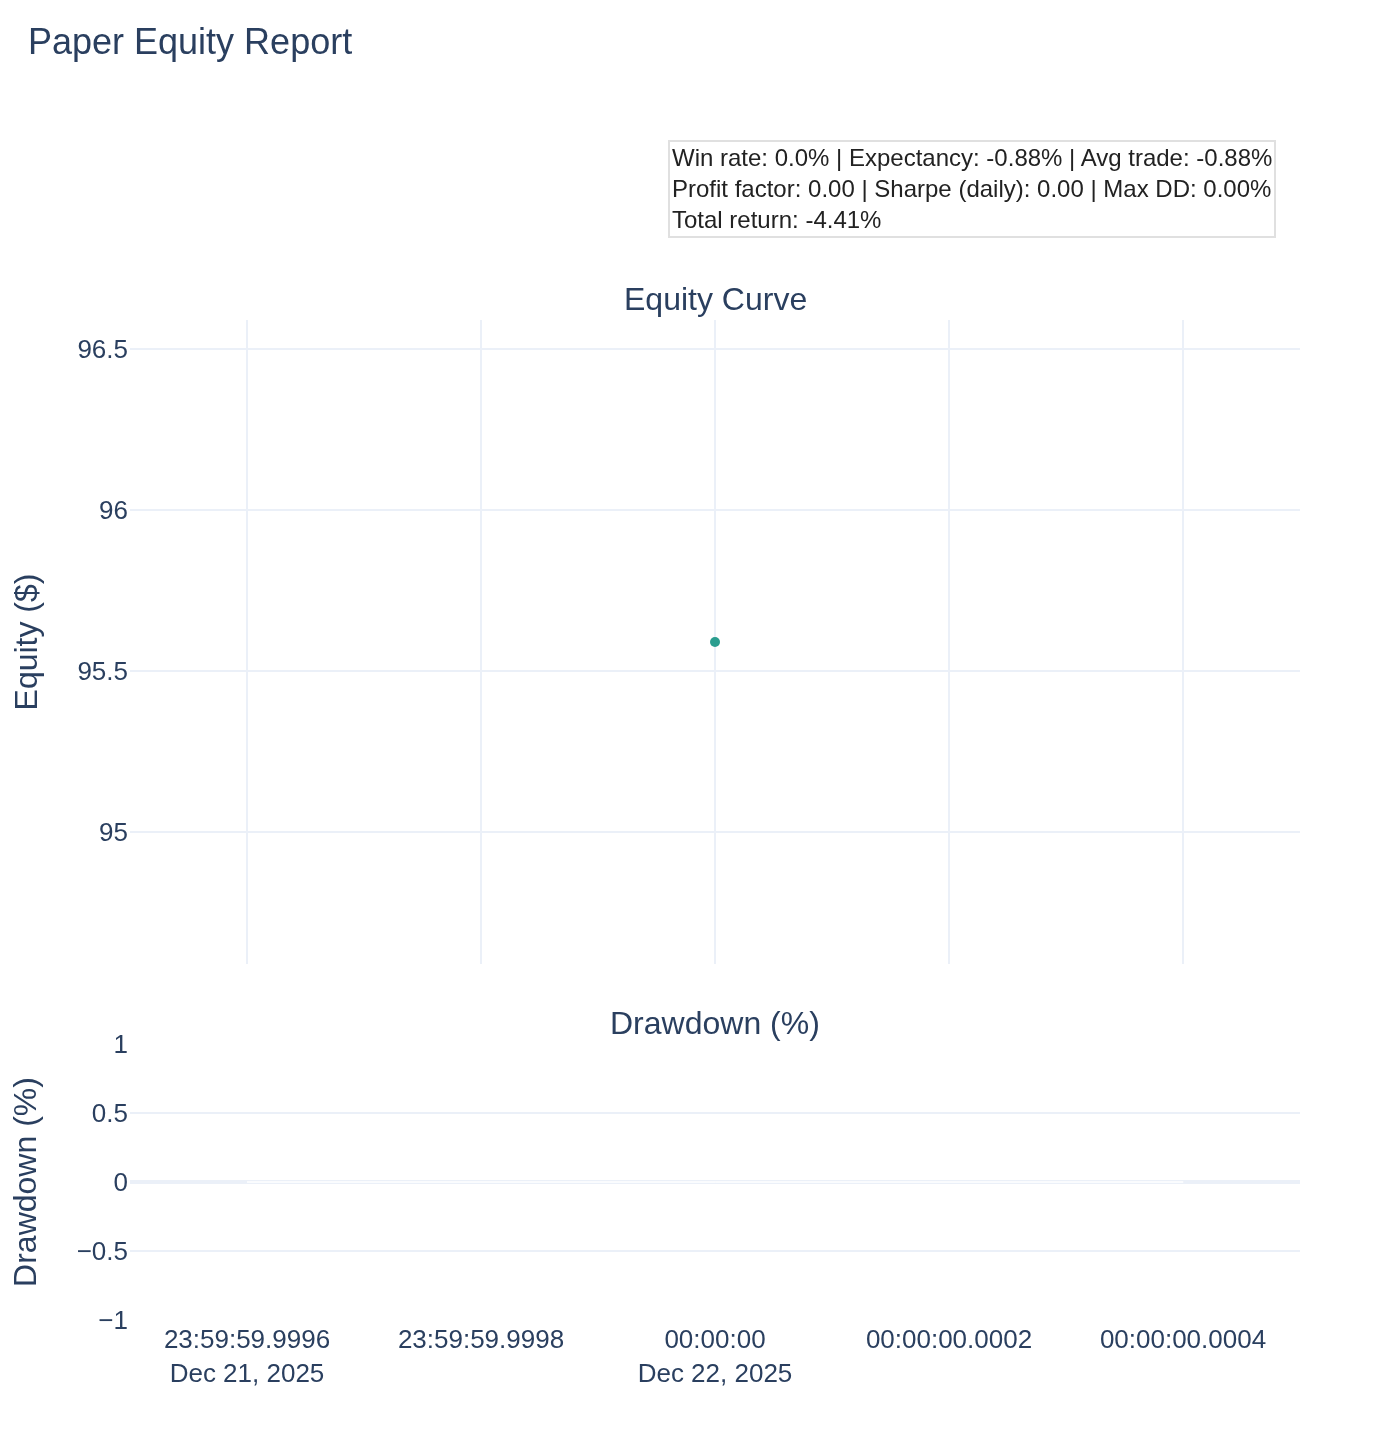
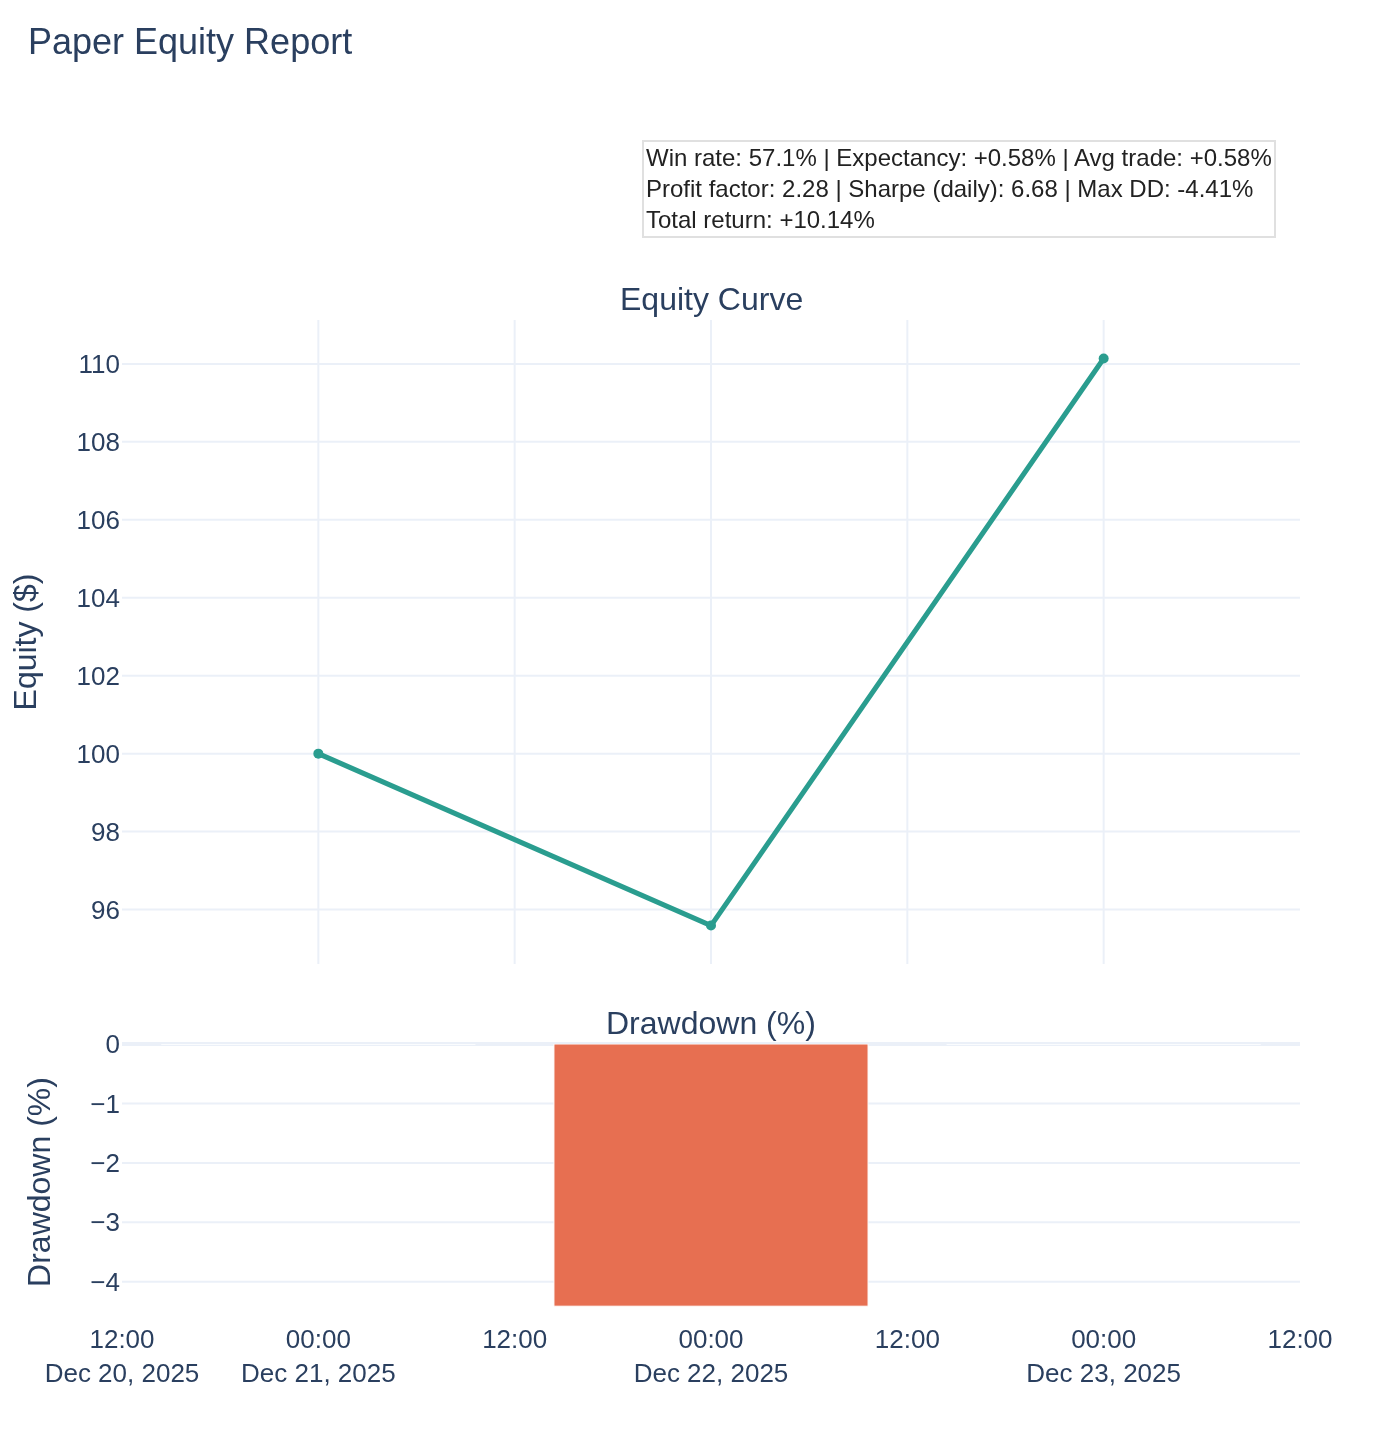
Anchor equity report to starting balance

diff --git a/reports/paper_equity_report.html b/reports/paper_equity_report.html
@@ -2,6 +2,6 @@
 <head><meta charset="utf-8" /></head>
 <body>
     <div>                        <script type="text/javascript">window.PlotlyConfig = {MathJaxConfig: 'local'};</script>
-        <script charset="utf-8" src="https://cdn.plot.ly/plotly-3.3.0.min.js" integrity="sha256-bO3dS6yCpk9aK4gUpNELtCiDeSYvGYnK7jFI58NQnHI=" crossorigin="anonymous"></script>                <div id="7e780906-0592-4a27-96a0-090c764df14f" class="plotly-graph-div" style="height:720px; width:100%;"></div>            <script type="text/javascript">                window.PLOTLYENV=window.PLOTLYENV || {};                                if (document.getElementById("7e780906-0592-4a27-96a0-090c764df14f")) {                    Plotly.newPlot(                        "7e780906-0592-4a27-96a0-090c764df14f",                        [{"line":{"color":"#2a9d8f","width":2.5},"marker":{"color":"#2a9d8f","size":5},"mode":"lines+markers","name":"Equity","x":["2025-12-22"],"y":{"dtype":"f8","bdata":"9ihcj8LlV0A="},"type":"scatter","xaxis":"x","yaxis":"y"},{"marker":{"color":"#e76f51"},"name":"Drawdown","x":["2025-12-22"],"y":{"dtype":"f8","bdata":"AAAAAAAAAAA="},"type":"bar","xaxis":"x2","yaxis":"y2"}],                        {"template":{"data":{"barpolar":[{"marker":{"line":{"color":"white","width":0.5},"pattern":{"fillmode":"overlay","size":10,"solidity":0.2}},"type":"barpolar"}],"bar":[{"error_x":{"color":"#2a3f5f"},"error_y":{"color":"#2a3f5f"},"marker":{"line":{"color":"white","width":0.5},"pattern":{"fillmode":"overlay","size":10,"solidity":0.2}},"type":"bar"}],"carpet":[{"aaxis":{"endlinecolor":"#2a3f5f","gridcolor":"#C8D4E3","linecolor":"#C8D4E3","minorgridcolor":"#C8D4E3","startlinecolor":"#2a3f5f"},"baxis":{"endlinecolor":"#2a3f5f","gridcolor":"#C8D4E3","linecolor":"#C8D4E3","minorgridcolor":"#C8D4E3","startlinecolor":"#2a3f5f"},"type":"carpet"}],"choropleth":[{"colorbar":{"outlinewidth":0,"ticks":""},"type":"choropleth"}],"contourcarpet":[{"colorbar":{"outlinewidth":0,"ticks":""},"type":"contourcarpet"}],"contour":[{"colorbar":{"outlinewidth":0,"ticks":""},"colorscale":[[0.0,"#0d0887"],[0.1111111111111111,"#46039f"],[0.2222222222222222,"#7201a8"],[0.3333333333333333,"#9c179e"],[0.4444444444444444,"#bd3786"],[0.5555555555555556,"#d8576b"],[0.6666666666666666,"#ed7953"],[0.7777777777777778,"#fb9f3a"],[0.8888888888888888,"#fdca26"],[1.0,"#f0f921"]],"type":"contour"}],"heatmap":[{"colorbar":{"outlinewidth":0,"ticks":""},"colorscale":[[0.0,"#0d0887"],[0.1111111111111111,"#46039f"],[0.2222222222222222,"#7201a8"],[0.3333333333333333,"#9c179e"],[0.4444444444444444,"#bd3786"],[0.5555555555555556,"#d8576b"],[0.6666666666666666,"#ed7953"],[0.7777777777777778,"#fb9f3a"],[0.8888888888888888,"#fdca26"],[1.0,"#f0f921"]],"type":"heatmap"}],"histogram2dcontour":[{"colorbar":{"outlinewidth":0,"ticks":""},"colorscale":[[0.0,"#0d0887"],[0.1111111111111111,"#46039f"],[0.2222222222222222,"#7201a8"],[0.3333333333333333,"#9c179e"],[0.4444444444444444,"#bd3786"],[0.5555555555555556,"#d8576b"],[0.6666666666666666,"#ed7953"],[0.7777777777777778,"#fb9f3a"],[0.8888888888888888,"#fdca26"],[1.0,"#f0f921"]],"type":"histogram2dcontour"}],"histogram2d":[{"colorbar":{"outlinewidth":0,"ticks":""},"colorscale":[[0.0,"#0d0887"],[0.1111111111111111,"#46039f"],[0.2222222222222222,"#7201a8"],[0.3333333333333333,"#9c179e"],[0.4444444444444444,"#bd3786"],[0.5555555555555556,"#d8576b"],[0.6666666666666666,"#ed7953"],[0.7777777777777778,"#fb9f3a"],[0.8888888888888888,"#fdca26"],[1.0,"#f0f921"]],"type":"histogram2d"}],"histogram":[{"marker":{"pattern":{"fillmode":"overlay","size":10,"solidity":0.2}},"type":"histogram"}],"mesh3d":[{"colorbar":{"outlinewidth":0,"ticks":""},"type":"mesh3d"}],"parcoords":[{"line":{"colorbar":{"outlinewidth":0,"ticks":""}},"type":"parcoords"}],"pie":[{"automargin":true,"type":"pie"}],"scatter3d":[{"line":{"colorbar":{"outlinewidth":0,"ticks":""}},"marker":{"colorbar":{"outlinewidth":0,"ticks":""}},"type":"scatter3d"}],"scattercarpet":[{"marker":{"colorbar":{"outlinewidth":0,"ticks":""}},"type":"scattercarpet"}],"scattergeo":[{"marker":{"colorbar":{"outlinewidth":0,"ticks":""}},"type":"scattergeo"}],"scattergl":[{"marker":{"colorbar":{"outlinewidth":0,"ticks":""}},"type":"scattergl"}],"scattermapbox":[{"marker":{"colorbar":{"outlinewidth":0,"ticks":""}},"type":"scattermapbox"}],"scattermap":[{"marker":{"colorbar":{"outlinewidth":0,"ticks":""}},"type":"scattermap"}],"scatterpolargl":[{"marker":{"colorbar":{"outlinewidth":0,"ticks":""}},"type":"scatterpolargl"}],"scatterpolar":[{"marker":{"colorbar":{"outlinewidth":0,"ticks":""}},"type":"scatterpolar"}],"scatter":[{"fillpattern":{"fillmode":"overlay","size":10,"solidity":0.2},"type":"scatter"}],"scatterternary":[{"marker":{"colorbar":{"outlinewidth":0,"ticks":""}},"type":"scatterternary"}],"surface":[{"colorbar":{"outlinewidth":0,"ticks":""},"colorscale":[[0.0,"#0d0887"],[0.1111111111111111,"#46039f"],[0.2222222222222222,"#7201a8"],[0.3333333333333333,"#9c179e"],[0.4444444444444444,"#bd3786"],[0.5555555555555556,"#d8576b"],[0.6666666666666666,"#ed7953"],[0.7777777777777778,"#fb9f3a"],[0.8888888888888888,"#fdca26"],[1.0,"#f0f921"]],"type":"surface"}],"table":[{"cells":{"fill":{"color":"#EBF0F8"},"line":{"color":"white"}},"header":{"fill":{"color":"#C8D4E3"},"line":{"color":"white"}},"type":"table"}]},"layout":{"annotationdefaults":{"arrowcolor":"#2a3f5f","arrowhead":0,"arrowwidth":1},"autotypenumbers":"strict","coloraxis":{"colorbar":{"outlinewidth":0,"ticks":""}},"colorscale":{"diverging":[[0,"#8e0152"],[0.1,"#c51b7d"],[0.2,"#de77ae"],[0.3,"#f1b6da"],[0.4,"#fde0ef"],[0.5,"#f7f7f7"],[0.6,"#e6f5d0"],[0.7,"#b8e186"],[0.8,"#7fbc41"],[0.9,"#4d9221"],[1,"#276419"]],"sequential":[[0.0,"#0d0887"],[0.1111111111111111,"#46039f"],[0.2222222222222222,"#7201a8"],[0.3333333333333333,"#9c179e"],[0.4444444444444444,"#bd3786"],[0.5555555555555556,"#d8576b"],[0.6666666666666666,"#ed7953"],[0.7777777777777778,"#fb9f3a"],[0.8888888888888888,"#fdca26"],[1.0,"#f0f921"]],"sequentialminus":[[0.0,"#0d0887"],[0.1111111111111111,"#46039f"],[0.2222222222222222,"#7201a8"],[0.3333333333333333,"#9c179e"],[0.4444444444444444,"#bd3786"],[0.5555555555555556,"#d8576b"],[0.6666666666666666,"#ed7953"],[0.7777777777777778,"#fb9f3a"],[0.8888888888888888,"#fdca26"],[1.0,"#f0f921"]]},"colorway":["#636efa","#EF553B","#00cc96","#ab63fa","#FFA15A","#19d3f3","#FF6692","#B6E880","#FF97FF","#FECB52"],"font":{"color":"#2a3f5f"},"geo":{"bgcolor":"white","lakecolor":"white","landcolor":"white","showlakes":true,"showland":true,"subunitcolor":"#C8D4E3"},"hoverlabel":{"align":"left"},"hovermode":"closest","mapbox":{"style":"light"},"paper_bgcolor":"white","plot_bgcolor":"white","polar":{"angularaxis":{"gridcolor":"#EBF0F8","linecolor":"#EBF0F8","ticks":""},"bgcolor":"white","radialaxis":{"gridcolor":"#EBF0F8","linecolor":"#EBF0F8","ticks":""}},"scene":{"xaxis":{"backgroundcolor":"white","gridcolor":"#DFE8F3","gridwidth":2,"linecolor":"#EBF0F8","showbackground":true,"ticks":"","zerolinecolor":"#EBF0F8"},"yaxis":{"backgroundcolor":"white","gridcolor":"#DFE8F3","gridwidth":2,"linecolor":"#EBF0F8","showbackground":true,"ticks":"","zerolinecolor":"#EBF0F8"},"zaxis":{"backgroundcolor":"white","gridcolor":"#DFE8F3","gridwidth":2,"linecolor":"#EBF0F8","showbackground":true,"ticks":"","zerolinecolor":"#EBF0F8"}},"shapedefaults":{"line":{"color":"#2a3f5f"}},"ternary":{"aaxis":{"gridcolor":"#DFE8F3","linecolor":"#A2B1C6","ticks":""},"baxis":{"gridcolor":"#DFE8F3","linecolor":"#A2B1C6","ticks":""},"bgcolor":"white","caxis":{"gridcolor":"#DFE8F3","linecolor":"#A2B1C6","ticks":""}},"title":{"x":0.05},"xaxis":{"automargin":true,"gridcolor":"#EBF0F8","linecolor":"#EBF0F8","ticks":"","title":{"standoff":15},"zerolinecolor":"#EBF0F8","zerolinewidth":2},"yaxis":{"automargin":true,"gridcolor":"#EBF0F8","linecolor":"#EBF0F8","ticks":"","title":{"standoff":15},"zerolinecolor":"#EBF0F8","zerolinewidth":2}}},"xaxis":{"anchor":"y","domain":[0.0,1.0],"matches":"x2","showticklabels":false},"yaxis":{"anchor":"x","domain":[0.35600000000000004,1.0],"title":{"text":"Equity ($)"}},"xaxis2":{"anchor":"y2","domain":[0.0,1.0]},"yaxis2":{"anchor":"x2","domain":[0.0,0.276],"title":{"text":"Drawdown (%)"}},"annotations":[{"font":{"size":16},"showarrow":false,"text":"Equity Curve","x":0.5,"xanchor":"center","xref":"paper","y":1.0,"yanchor":"bottom","yref":"paper"},{"font":{"size":16},"showarrow":false,"text":"Drawdown (%)","x":0.5,"xanchor":"center","xref":"paper","y":0.276,"yanchor":"bottom","yref":"paper"},{"align":"left","bgcolor":"rgba(255,255,255,0.9)","bordercolor":"#e0e0e0","borderwidth":1,"font":{"color":"#222","size":12},"showarrow":false,"text":"Win rate: 0.0% | Expectancy: -0.88% | Avg trade: -0.88%\u003cbr\u003eProfit factor: 0.00 | Sharpe (daily): 0.00 | Max DD: 0.00%\u003cbr\u003eTotal return: -4.41%","x":0.98,"xanchor":"right","xref":"paper","y":1.18,"yanchor":"top","yref":"paper"}],"title":{"text":"Paper Equity Report","x":0.02,"xanchor":"left","y":0.98,"yanchor":"top"},"margin":{"l":50,"r":50,"t":160,"b":60},"font":{"size":13},"height":720,"showlegend":false},                        {"responsive": true}                    )                };            </script>        </div>
+        <script charset="utf-8" src="https://cdn.plot.ly/plotly-3.3.0.min.js" integrity="sha256-bO3dS6yCpk9aK4gUpNELtCiDeSYvGYnK7jFI58NQnHI=" crossorigin="anonymous"></script>                <div id="e0843ff1-f596-4824-9219-e7033e2a6e6b" class="plotly-graph-div" style="height:720px; width:100%;"></div>            <script type="text/javascript">                window.PLOTLYENV=window.PLOTLYENV || {};                                if (document.getElementById("e0843ff1-f596-4824-9219-e7033e2a6e6b")) {                    Plotly.newPlot(                        "e0843ff1-f596-4824-9219-e7033e2a6e6b",                        [{"line":{"color":"#2a9d8f","width":2.5},"marker":{"color":"#2a9d8f","size":5},"mode":"lines+markers","name":"Equity","x":["2025-12-21","2025-12-22","2025-12-23"],"y":{"dtype":"f8","bdata":"AAAAAAAAWUD2KFyPwuVXQClcj8L1iFtA"},"type":"scatter","xaxis":"x","yaxis":"y"},{"marker":{"color":"#e76f51"},"name":"Drawdown","x":["2025-12-21","2025-12-22","2025-12-23"],"y":{"dtype":"f8","bdata":"AAAAAAAAAACgcD0K16MRwAAAAAAAAAAA"},"type":"bar","xaxis":"x2","yaxis":"y2"}],                        {"template":{"data":{"barpolar":[{"marker":{"line":{"color":"white","width":0.5},"pattern":{"fillmode":"overlay","size":10,"solidity":0.2}},"type":"barpolar"}],"bar":[{"error_x":{"color":"#2a3f5f"},"error_y":{"color":"#2a3f5f"},"marker":{"line":{"color":"white","width":0.5},"pattern":{"fillmode":"overlay","size":10,"solidity":0.2}},"type":"bar"}],"carpet":[{"aaxis":{"endlinecolor":"#2a3f5f","gridcolor":"#C8D4E3","linecolor":"#C8D4E3","minorgridcolor":"#C8D4E3","startlinecolor":"#2a3f5f"},"baxis":{"endlinecolor":"#2a3f5f","gridcolor":"#C8D4E3","linecolor":"#C8D4E3","minorgridcolor":"#C8D4E3","startlinecolor":"#2a3f5f"},"type":"carpet"}],"choropleth":[{"colorbar":{"outlinewidth":0,"ticks":""},"type":"choropleth"}],"contourcarpet":[{"colorbar":{"outlinewidth":0,"ticks":""},"type":"contourcarpet"}],"contour":[{"colorbar":{"outlinewidth":0,"ticks":""},"colorscale":[[0.0,"#0d0887"],[0.1111111111111111,"#46039f"],[0.2222222222222222,"#7201a8"],[0.3333333333333333,"#9c179e"],[0.4444444444444444,"#bd3786"],[0.5555555555555556,"#d8576b"],[0.6666666666666666,"#ed7953"],[0.7777777777777778,"#fb9f3a"],[0.8888888888888888,"#fdca26"],[1.0,"#f0f921"]],"type":"contour"}],"heatmap":[{"colorbar":{"outlinewidth":0,"ticks":""},"colorscale":[[0.0,"#0d0887"],[0.1111111111111111,"#46039f"],[0.2222222222222222,"#7201a8"],[0.3333333333333333,"#9c179e"],[0.4444444444444444,"#bd3786"],[0.5555555555555556,"#d8576b"],[0.6666666666666666,"#ed7953"],[0.7777777777777778,"#fb9f3a"],[0.8888888888888888,"#fdca26"],[1.0,"#f0f921"]],"type":"heatmap"}],"histogram2dcontour":[{"colorbar":{"outlinewidth":0,"ticks":""},"colorscale":[[0.0,"#0d0887"],[0.1111111111111111,"#46039f"],[0.2222222222222222,"#7201a8"],[0.3333333333333333,"#9c179e"],[0.4444444444444444,"#bd3786"],[0.5555555555555556,"#d8576b"],[0.6666666666666666,"#ed7953"],[0.7777777777777778,"#fb9f3a"],[0.8888888888888888,"#fdca26"],[1.0,"#f0f921"]],"type":"histogram2dcontour"}],"histogram2d":[{"colorbar":{"outlinewidth":0,"ticks":""},"colorscale":[[0.0,"#0d0887"],[0.1111111111111111,"#46039f"],[0.2222222222222222,"#7201a8"],[0.3333333333333333,"#9c179e"],[0.4444444444444444,"#bd3786"],[0.5555555555555556,"#d8576b"],[0.6666666666666666,"#ed7953"],[0.7777777777777778,"#fb9f3a"],[0.8888888888888888,"#fdca26"],[1.0,"#f0f921"]],"type":"histogram2d"}],"histogram":[{"marker":{"pattern":{"fillmode":"overlay","size":10,"solidity":0.2}},"type":"histogram"}],"mesh3d":[{"colorbar":{"outlinewidth":0,"ticks":""},"type":"mesh3d"}],"parcoords":[{"line":{"colorbar":{"outlinewidth":0,"ticks":""}},"type":"parcoords"}],"pie":[{"automargin":true,"type":"pie"}],"scatter3d":[{"line":{"colorbar":{"outlinewidth":0,"ticks":""}},"marker":{"colorbar":{"outlinewidth":0,"ticks":""}},"type":"scatter3d"}],"scattercarpet":[{"marker":{"colorbar":{"outlinewidth":0,"ticks":""}},"type":"scattercarpet"}],"scattergeo":[{"marker":{"colorbar":{"outlinewidth":0,"ticks":""}},"type":"scattergeo"}],"scattergl":[{"marker":{"colorbar":{"outlinewidth":0,"ticks":""}},"type":"scattergl"}],"scattermapbox":[{"marker":{"colorbar":{"outlinewidth":0,"ticks":""}},"type":"scattermapbox"}],"scattermap":[{"marker":{"colorbar":{"outlinewidth":0,"ticks":""}},"type":"scattermap"}],"scatterpolargl":[{"marker":{"colorbar":{"outlinewidth":0,"ticks":""}},"type":"scatterpolargl"}],"scatterpolar":[{"marker":{"colorbar":{"outlinewidth":0,"ticks":""}},"type":"scatterpolar"}],"scatter":[{"fillpattern":{"fillmode":"overlay","size":10,"solidity":0.2},"type":"scatter"}],"scatterternary":[{"marker":{"colorbar":{"outlinewidth":0,"ticks":""}},"type":"scatterternary"}],"surface":[{"colorbar":{"outlinewidth":0,"ticks":""},"colorscale":[[0.0,"#0d0887"],[0.1111111111111111,"#46039f"],[0.2222222222222222,"#7201a8"],[0.3333333333333333,"#9c179e"],[0.4444444444444444,"#bd3786"],[0.5555555555555556,"#d8576b"],[0.6666666666666666,"#ed7953"],[0.7777777777777778,"#fb9f3a"],[0.8888888888888888,"#fdca26"],[1.0,"#f0f921"]],"type":"surface"}],"table":[{"cells":{"fill":{"color":"#EBF0F8"},"line":{"color":"white"}},"header":{"fill":{"color":"#C8D4E3"},"line":{"color":"white"}},"type":"table"}]},"layout":{"annotationdefaults":{"arrowcolor":"#2a3f5f","arrowhead":0,"arrowwidth":1},"autotypenumbers":"strict","coloraxis":{"colorbar":{"outlinewidth":0,"ticks":""}},"colorscale":{"diverging":[[0,"#8e0152"],[0.1,"#c51b7d"],[0.2,"#de77ae"],[0.3,"#f1b6da"],[0.4,"#fde0ef"],[0.5,"#f7f7f7"],[0.6,"#e6f5d0"],[0.7,"#b8e186"],[0.8,"#7fbc41"],[0.9,"#4d9221"],[1,"#276419"]],"sequential":[[0.0,"#0d0887"],[0.1111111111111111,"#46039f"],[0.2222222222222222,"#7201a8"],[0.3333333333333333,"#9c179e"],[0.4444444444444444,"#bd3786"],[0.5555555555555556,"#d8576b"],[0.6666666666666666,"#ed7953"],[0.7777777777777778,"#fb9f3a"],[0.8888888888888888,"#fdca26"],[1.0,"#f0f921"]],"sequentialminus":[[0.0,"#0d0887"],[0.1111111111111111,"#46039f"],[0.2222222222222222,"#7201a8"],[0.3333333333333333,"#9c179e"],[0.4444444444444444,"#bd3786"],[0.5555555555555556,"#d8576b"],[0.6666666666666666,"#ed7953"],[0.7777777777777778,"#fb9f3a"],[0.8888888888888888,"#fdca26"],[1.0,"#f0f921"]]},"colorway":["#636efa","#EF553B","#00cc96","#ab63fa","#FFA15A","#19d3f3","#FF6692","#B6E880","#FF97FF","#FECB52"],"font":{"color":"#2a3f5f"},"geo":{"bgcolor":"white","lakecolor":"white","landcolor":"white","showlakes":true,"showland":true,"subunitcolor":"#C8D4E3"},"hoverlabel":{"align":"left"},"hovermode":"closest","mapbox":{"style":"light"},"paper_bgcolor":"white","plot_bgcolor":"white","polar":{"angularaxis":{"gridcolor":"#EBF0F8","linecolor":"#EBF0F8","ticks":""},"bgcolor":"white","radialaxis":{"gridcolor":"#EBF0F8","linecolor":"#EBF0F8","ticks":""}},"scene":{"xaxis":{"backgroundcolor":"white","gridcolor":"#DFE8F3","gridwidth":2,"linecolor":"#EBF0F8","showbackground":true,"ticks":"","zerolinecolor":"#EBF0F8"},"yaxis":{"backgroundcolor":"white","gridcolor":"#DFE8F3","gridwidth":2,"linecolor":"#EBF0F8","showbackground":true,"ticks":"","zerolinecolor":"#EBF0F8"},"zaxis":{"backgroundcolor":"white","gridcolor":"#DFE8F3","gridwidth":2,"linecolor":"#EBF0F8","showbackground":true,"ticks":"","zerolinecolor":"#EBF0F8"}},"shapedefaults":{"line":{"color":"#2a3f5f"}},"ternary":{"aaxis":{"gridcolor":"#DFE8F3","linecolor":"#A2B1C6","ticks":""},"baxis":{"gridcolor":"#DFE8F3","linecolor":"#A2B1C6","ticks":""},"bgcolor":"white","caxis":{"gridcolor":"#DFE8F3","linecolor":"#A2B1C6","ticks":""}},"title":{"x":0.05},"xaxis":{"automargin":true,"gridcolor":"#EBF0F8","linecolor":"#EBF0F8","ticks":"","title":{"standoff":15},"zerolinecolor":"#EBF0F8","zerolinewidth":2},"yaxis":{"automargin":true,"gridcolor":"#EBF0F8","linecolor":"#EBF0F8","ticks":"","title":{"standoff":15},"zerolinecolor":"#EBF0F8","zerolinewidth":2}}},"xaxis":{"anchor":"y","domain":[0.0,1.0],"matches":"x2","showticklabels":false},"yaxis":{"anchor":"x","domain":[0.35600000000000004,1.0],"title":{"text":"Equity ($)"}},"xaxis2":{"anchor":"y2","domain":[0.0,1.0]},"yaxis2":{"anchor":"x2","domain":[0.0,0.276],"title":{"text":"Drawdown (%)"}},"annotations":[{"font":{"size":16},"showarrow":false,"text":"Equity Curve","x":0.5,"xanchor":"center","xref":"paper","y":1.0,"yanchor":"bottom","yref":"paper"},{"font":{"size":16},"showarrow":false,"text":"Drawdown (%)","x":0.5,"xanchor":"center","xref":"paper","y":0.276,"yanchor":"bottom","yref":"paper"},{"align":"left","bgcolor":"rgba(255,255,255,0.9)","bordercolor":"#e0e0e0","borderwidth":1,"font":{"color":"#222","size":12},"showarrow":false,"text":"Win rate: 57.1% | Expectancy: +0.58% | Avg trade: +0.58%\u003cbr\u003eProfit factor: 2.28 | Sharpe (daily): 6.68 | Max DD: -4.41%\u003cbr\u003eTotal return: +10.14%","x":0.98,"xanchor":"right","xref":"paper","y":1.18,"yanchor":"top","yref":"paper"}],"title":{"text":"Paper Equity Report","x":0.02,"xanchor":"left","y":0.98,"yanchor":"top"},"margin":{"l":50,"r":50,"t":160,"b":60},"font":{"size":13},"height":720,"showlegend":false},                        {"responsive": true}                    )                };            </script>        </div>
 </body>
 </html>

diff --git a/trading/equity_report.py b/trading/equity_report.py
@@ -61,6 +61,22 @@ def build_daily_equity(
     daily["cum_pnl"] = daily["daily_pnl"].cumsum()
     daily["equity"] = starting_equity + daily["cum_pnl"]
 
+    # Anchor a baseline point so drawdown reflects the starting equity.
+    if not daily.empty:
+        first_date = daily.index.min()
+        baseline_date = first_date - pd.Timedelta(days=1)
+        baseline_row = pd.DataFrame(
+            {
+                "daily_pnl": [0.0],
+                "trades": [0],
+                "cum_pnl": [0.0],
+                "equity": [starting_equity],
+            },
+            index=[baseline_date],
+        )
+        daily = pd.concat([baseline_row, daily]).sort_index()
+        daily.index.name = "date"
+
     prev_equity = np.concatenate(([starting_equity], daily["equity"].to_numpy()[:-1]))
     prev_equity = np.where(prev_equity == 0, np.nan, prev_equity)
     daily_return_pct = np.divide(daily["daily_pnl"], prev_equity, where=~np.isnan(prev_equity)) * 100.0
